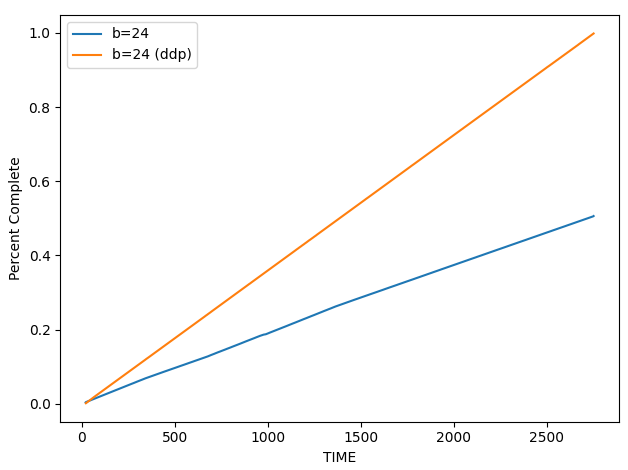
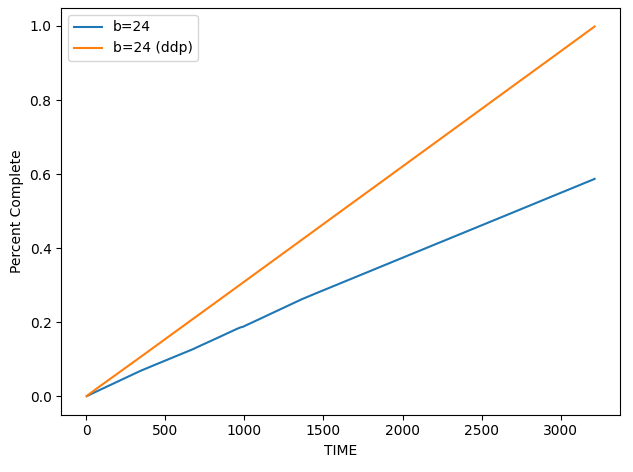
Added info about profiling

diff --git a/plots.py b/plots.py
@@ -17,7 +17,7 @@ df_2 = pd.read_csv(os.path.join('results/bert_small', '20-03-07.csv'), names=col
 # df_4 = pd.read_csv (os.path.join('logs_test/finetune/gpt2', 'b_3_ac.csv'), names=colnames, header=None).set_index('TIME')
 
 colnames=['TIME', 'b=24 (ddp)']
-df_5 = pd.read_csv (os.path.join('results/bert_small', 'ddp_f16_no_apex.csv'), names=colnames, header=None).set_index('TIME')
+df_5 = pd.read_csv (os.path.join('results/bert_small', '12-56-42.csv'), names=colnames, header=None).set_index('TIME')
 
 df = [df_2, df_5]
 
